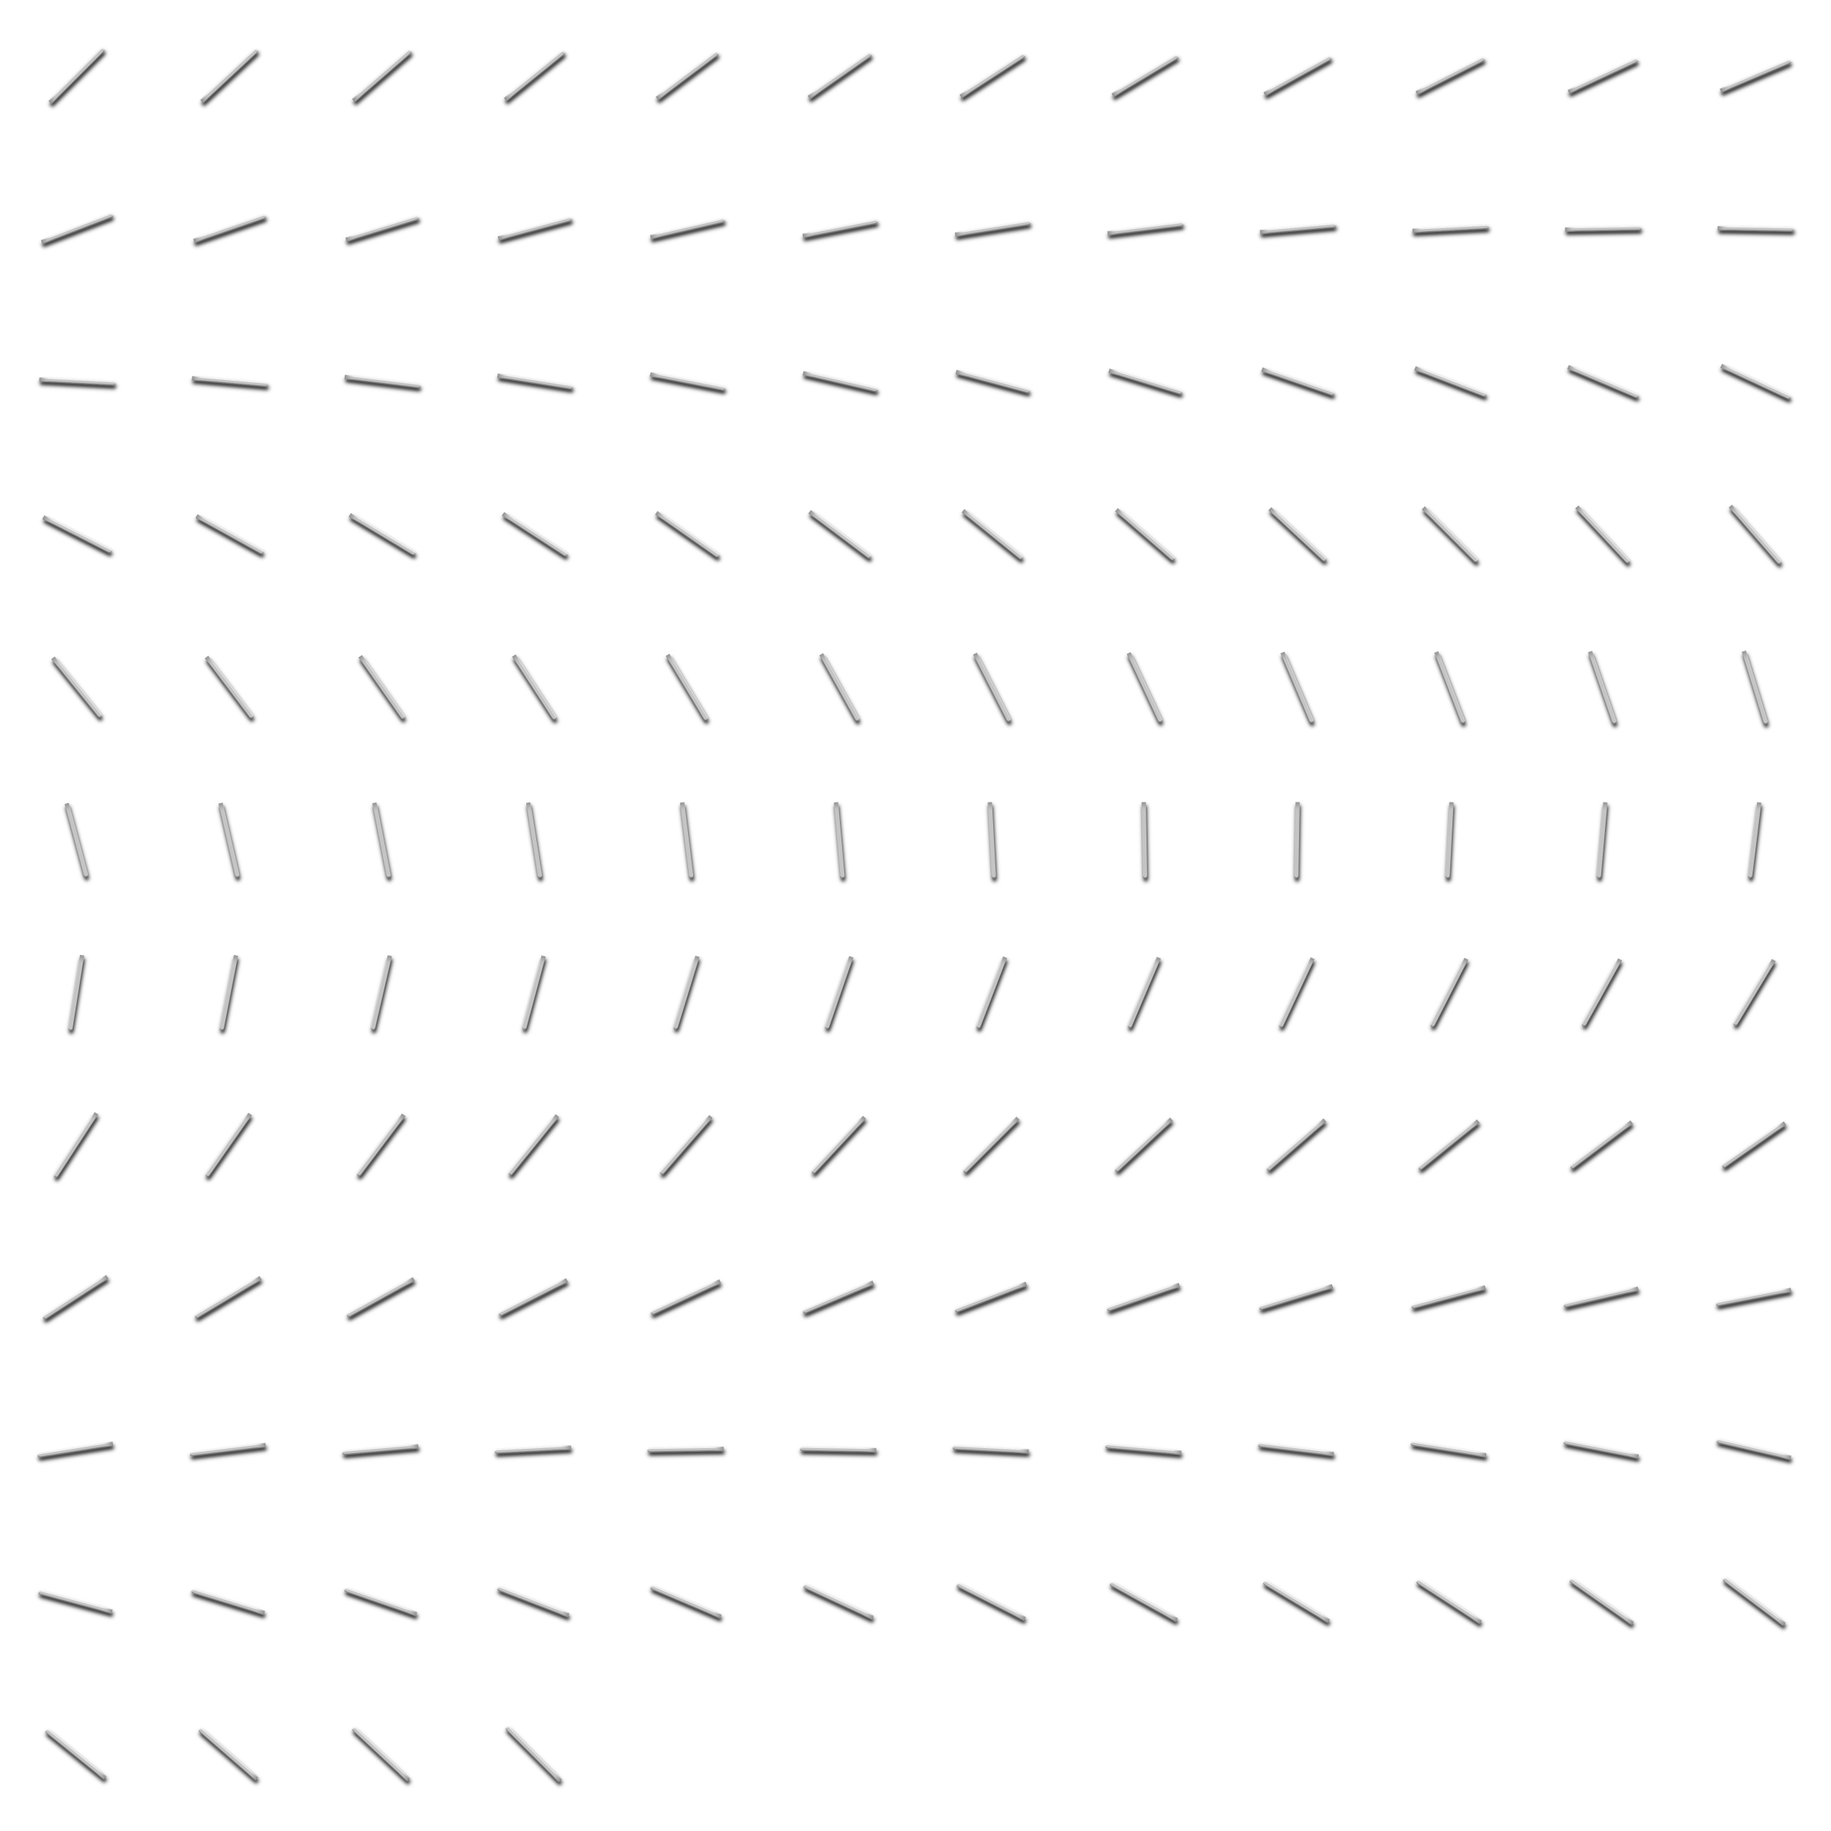
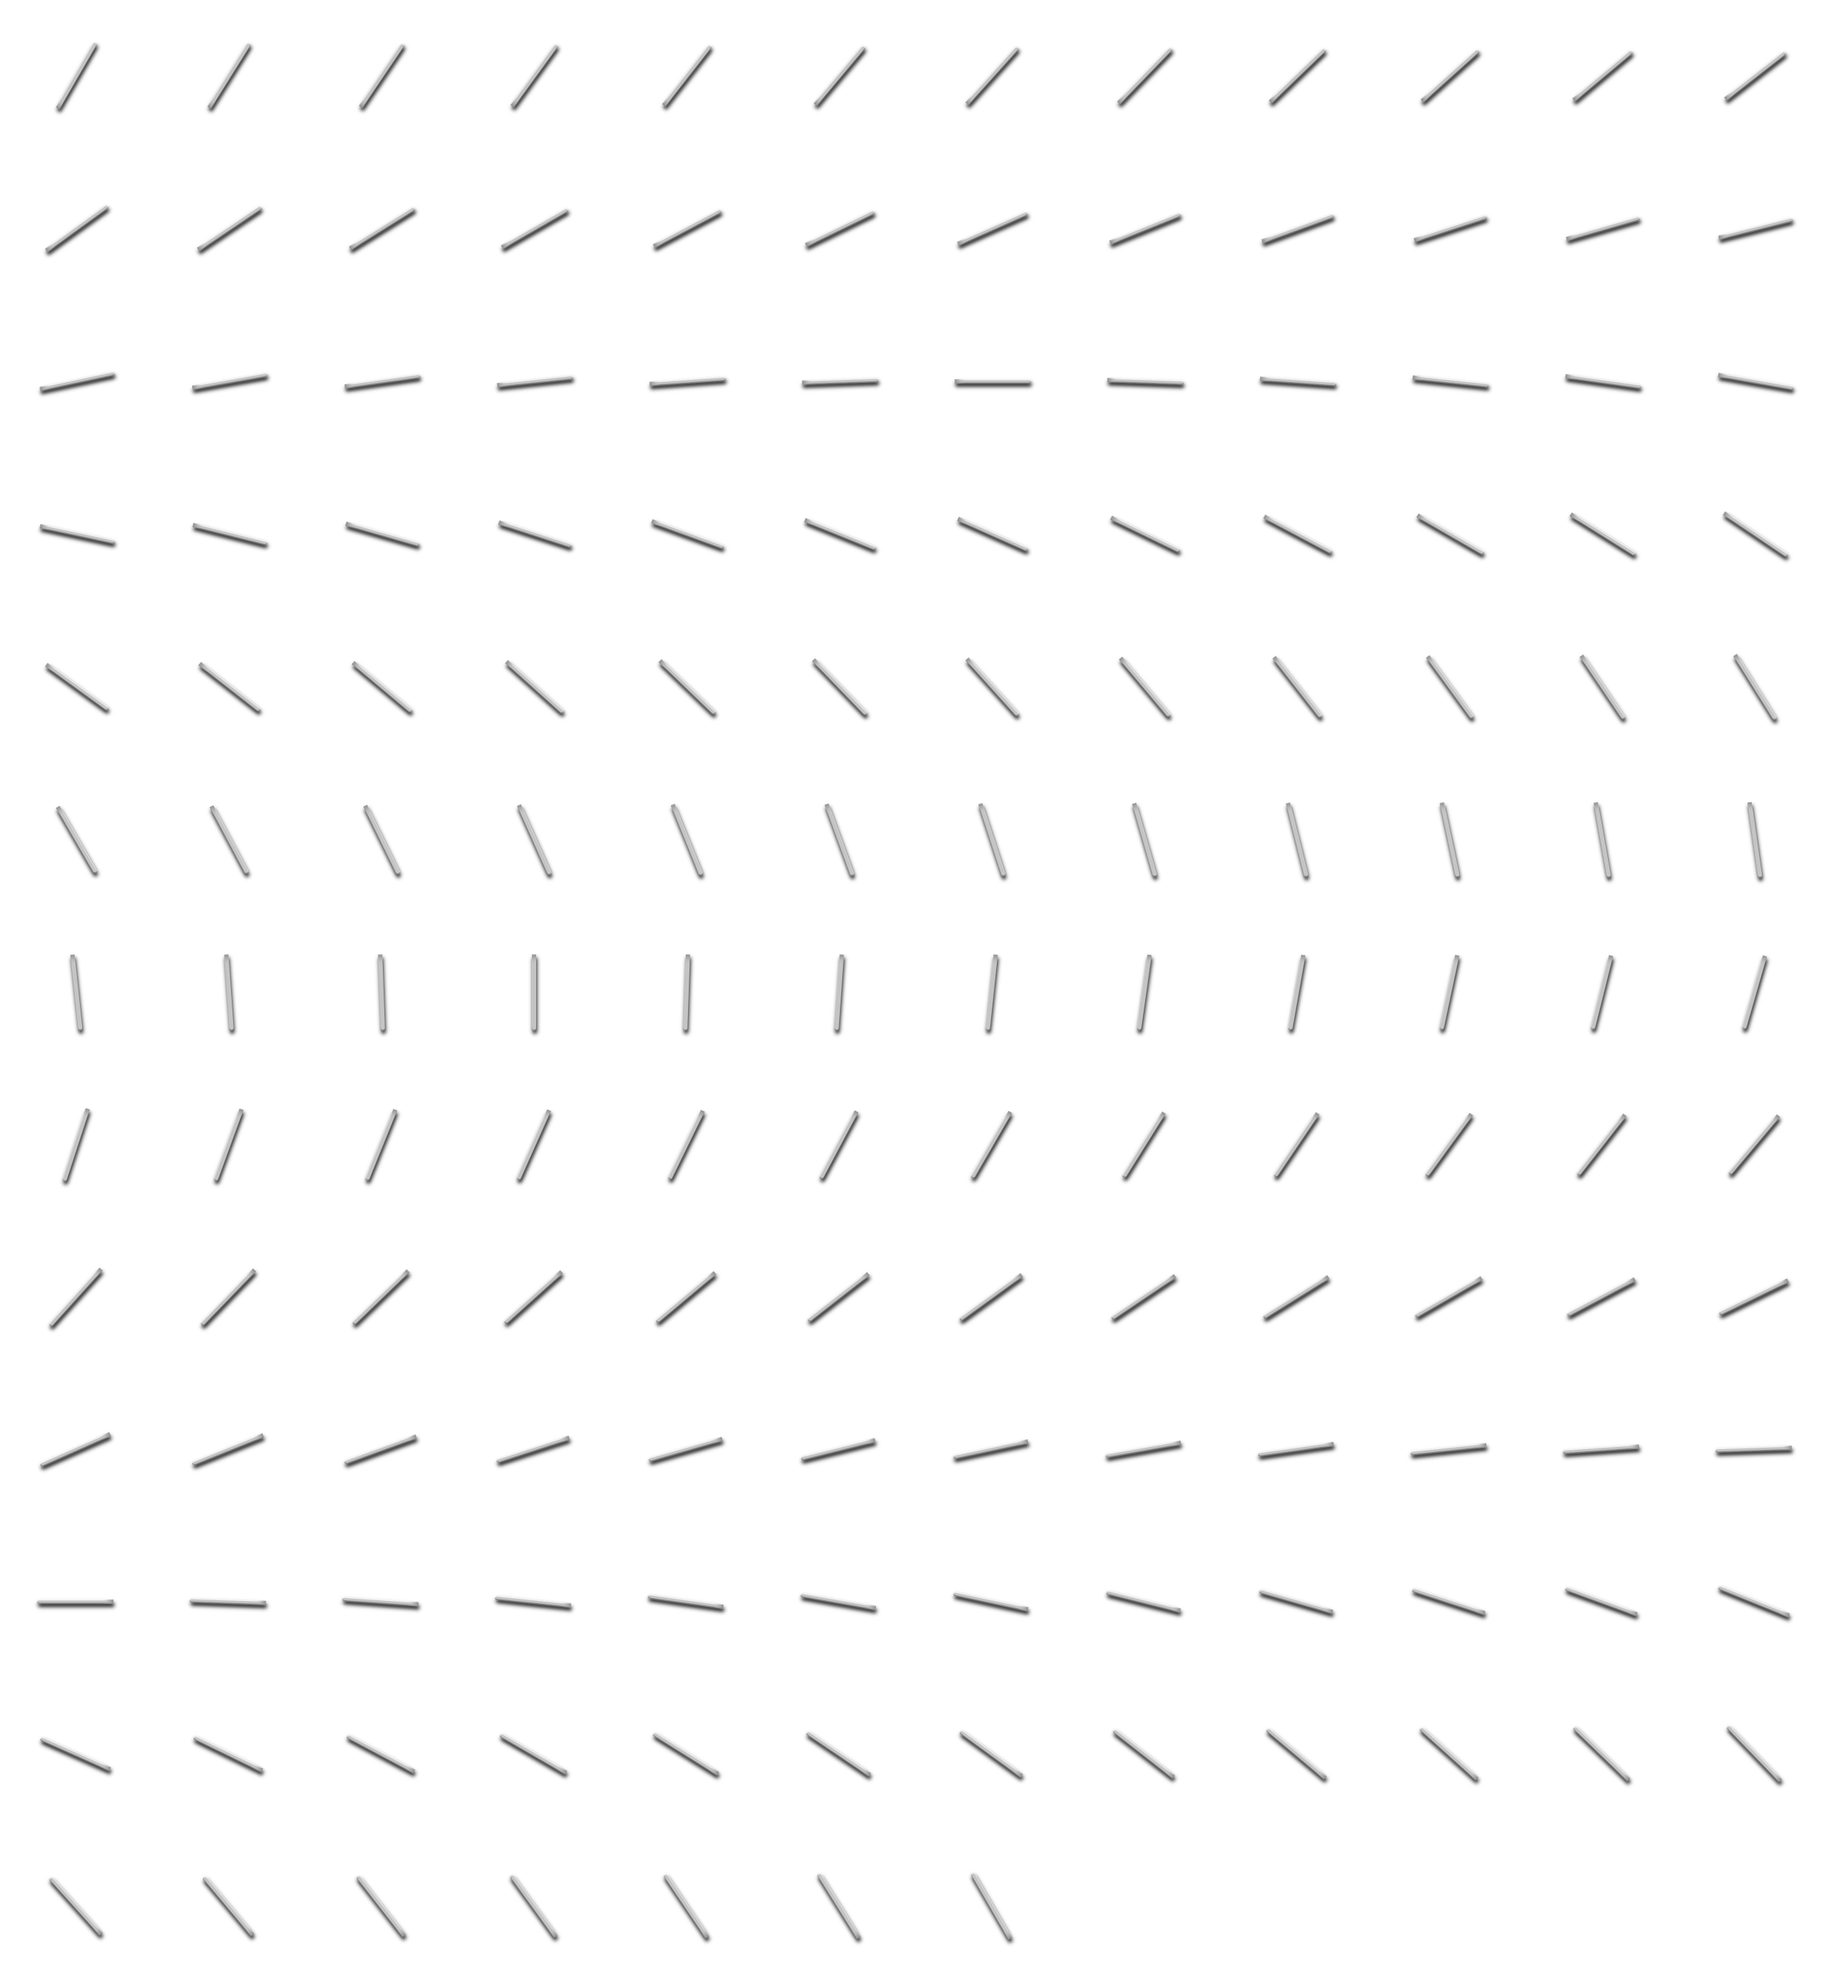
Depth: recorrido de 300 grados [skip ci]
Claude-Session: https://claude.ai/code/session_01LmYTuHAKQSU8qhR6nNkVAi

diff --git a/Source/PluginEditor.cpp b/Source/PluginEditor.cpp
@@ -14,7 +14,7 @@ namespace
     constexpr int   kCrop = 24;                                   // el recorte de la ventana: se corta por la linea oscura del marco
     constexpr int   kFaderX = 1309, kTop = 129, kBottom = 742;       // pista del fader: de y=129 (+6 dB) a y=742 (-inf); a 43.5 del valor de abajo, igual que las perillas
     constexpr float kBtnCy = 883.75f, kBtnHit = 38.0f;               // centro vertical de los botones y radio (cuadrado) donde responden al clic
-    constexpr int   kAtlasCols = 12;                                  // un cuadro del puntero cada 2 grados (Depth: 136 cuadros, -135..135; Fade: 151, -150..150)
+    constexpr int   kAtlasCols = 12;                                  // un cuadro del puntero cada 2 grados (151 cuadros, -150..150)
     const Colour kText (240, 240, 240);    // texto sobre el fondo oscuro
 
     // zona (en pixeles logicos) que ocupa el vumetro: se repinta solo eso cuando cambia
@@ -201,9 +201,9 @@ namespace
 
         // Depth salta de tick en tick, incluidos los intermedios (25 posiciones, -inf .. +6); Fade va de a 1 % (el clic en el anillo salta a uno de los 11 ticks, de a 10)
         // Fade: al arrastrar o usar la rueda se mueve de a 1 % (valores exactos); un clic en un tick o numero del anillo salta a ese tick (de a 10)
-        // recorrido de la perilla: Depth 270 grados (-135..135), Fade 300 (-150..150: el 20 % y el 80 % quedan a 180 grados entre si)
-        float halfSpan() const { return isDepth ? 135.0f : 150.0f; }
-        int numFrames() const { return isDepth ? 136 : 151; }
+        // recorrido de las dos perillas: 300 grados (-150..150), un cuadro del puntero cada 2 grados (151 cuadros)
+        static constexpr float halfSpan() { return 150.0f; }
+        static constexpr int numFrames() { return 151; }
         float steps() const { return isDepth ? 24.0f : nSteps; }
         float snapTick (float n) const { return std::round (jlimit (0.0f, 1.0f, n) * steps()) / steps(); }
         float snapFine (float n) const { const float s = isDepth ? 24.0f : 100.0f; return std::round (jlimit (0.0f, 1.0f, n) * s) / s; }

diff --git a/UI_definitiva/generadores/bg_gen.py b/UI_definitiva/generadores/bg_gen.py
@@ -31,7 +31,7 @@ def box(x0,y0,x1,y1,fill=FILL,ell=False):
 def txt(x,y,t,f,a='mm',c=G): d.text((x*S,y*S),t,font=f,fill=c,anchor=a)
 d.rectangle(sc(24,24,W-24,H-24),outline=(14,14,15),width=4*S); d.rectangle(sc(28,28,W-28,H-28),outline=(78,78,82),width=1*S)
 pt=24+M; db=pt+652; fb=742   # fb = fondo de la escala del fader (-inf)
-A13=[-135+22.5*i for i in range(13)]
+A13=[-150+25*i for i in range(13)]   # Depth: recorrido de 300 grados, 13 marcas grandes cada 25
 A11=[-150+30*i for i in range(11)]   # Fade: recorrido de 300 grados, el 20 % y el 80 % quedan justo a 180 grados entre si (a -90 y +90)
 def aa_ticks(cx,cy,r0,r1,angles,w=3.0,K=16):   # ticks radiales con borde suave exacto (se dibujan 16x mas grandes y se reducen), asi todos pesan igual
     pad=int(r1+8); sz=2*pad; m=Image.new('L',(sz*K,sz*K),0); md=ImageDraw.Draw(m)
@@ -83,7 +83,7 @@ for i,a in enumerate(A13):
     rd=R_+14.5; x=cx_+rd*math.sin(t); y=cy_-rd*math.cos(t); rr_=3.4
     d.ellipse(sc(x-rr_,y-rr_,x+rr_,y+rr_),fill=G)
     if i<12:
-        t2=math.radians(a+11.25); x=cx_+rd*math.sin(t2); y=cy_-rd*math.cos(t2); rr_=2.0
+        t2=math.radians(a+12.5); x=cx_+rd*math.sin(t2); y=cy_-rd*math.cos(t2); rr_=2.0
         d.ellipse(sc(x-rr_,y-rr_,x+rr_,y+rr_),fill=G)
     bb_=d.textbbox((0,0),LAB[i],font=fs,anchor='mm'); ox0,oy0,ox1,oy1=[v/S for v in bb_]   # caja de la tinta respecto del centro del texto
     px_,py_=cx_+rd*math.sin(t),cy_-rd*math.cos(t)    # el puntito

diff --git a/UI_definitiva/generadores/knobs_gen.py b/UI_definitiva/generadores/knobs_gen.py
@@ -98,7 +98,7 @@ def col_pol(dist):
     return w,196-56*w
 
 NF=136; COLS=12
-def atlas(name,H,mk,a0=-135,nf=NF):   # un cuadro cada 2 grados desde a0 (Depth: -135..135, 136 cuadros; Fade: -150..150, 151 cuadros)
+def atlas(name,H,mk,a0=-135,nf=NF):   # un cuadro cada 2 grados desde a0 (Depth y Fade: -150..150, 151 cuadros; el default viejo era -135..135)
     cell=2*H; rows=(nf+COLS-1)//COLS
     A=Image.new('RGBA',(cell*COLS,cell*rows),(0,0,0,0))
     for i in range(nf):
@@ -110,5 +110,5 @@ if __name__=='__main__':
     two(pol_body,POL_N).save('pol_body.png'); print('pol_body',POL_N//S)
     mode_img(-135).save('mode_half.png'); mode_img(135).save('mode_whole.png')
     HD=106; HP=71
-    atlas('depth_ptr.png',HD,lambda a:ptr_cell(a,RD*S,0.475*RD*S,0.85*RD*S,0.85*RD*S,col_depth,HD))
+    atlas('depth_ptr.png',HD,lambda a:ptr_cell(a,RD*S,0.475*RD*S,0.85*RD*S,0.85*RD*S,col_depth,HD),a0=-150,nf=151)   # Depth: recorrido de 300 grados
     atlas('pol_ptr.png',HP,lambda a:ptr_cell(a,RP*S,(0.40/0.775)*RP*S,1.1*RP*S,RP*S,col_pol,HP),a0=-150,nf=151)   # Fade: recorrido de 300 grados
